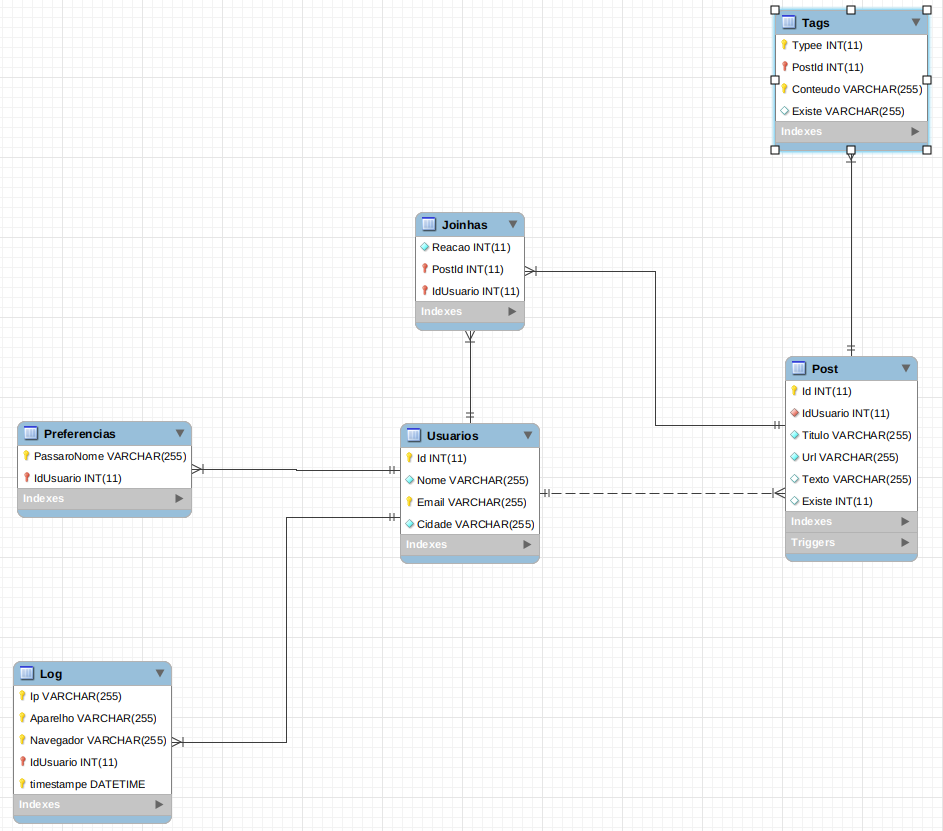
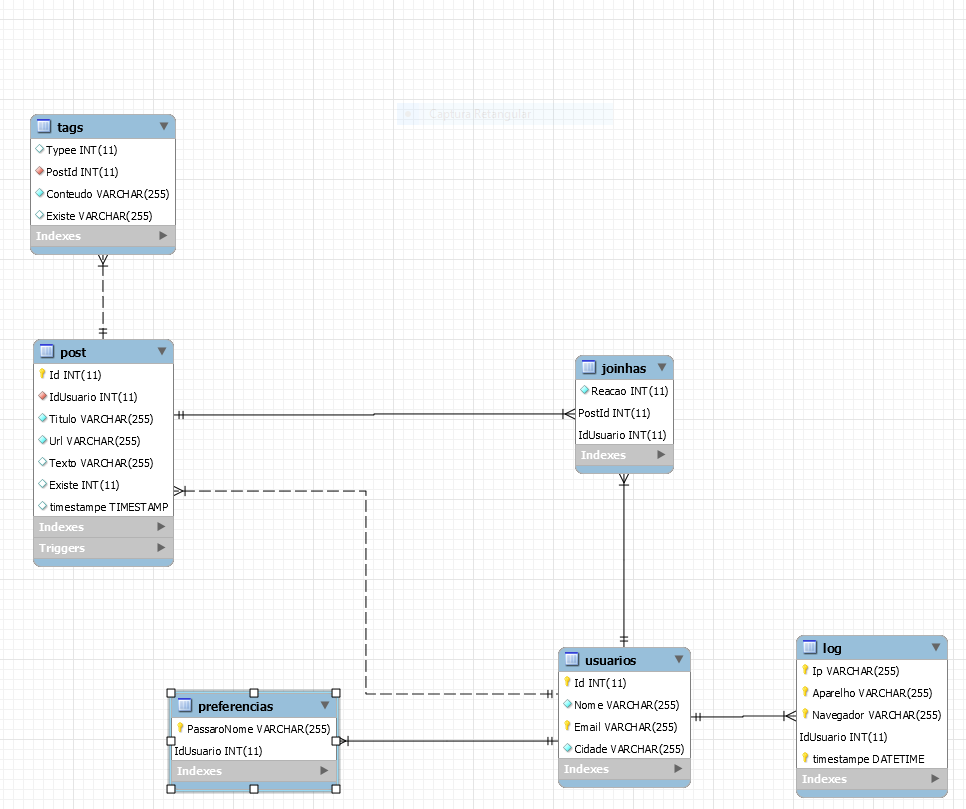
WIP: API

diff --git a/fast_api.py b/fast_api.py
@@ -1,0 +1,94 @@
+from fastapi import FastAPI
+from projeto import *
+
+app = FastAPI()
+
+
+connn = pymysql.connect(
+        host=config['HOST'],
+        user=config['USER'],
+        password=config['PASS'],
+        database='MEGDA'
+)
+
+
+class Usuario(BaseModel):
+    nome: str
+    email: str
+    cidade: str
+
+class Preferencia(BaseModel):
+    nomePassaro: str
+    idUsuario: int
+
+class Reacao(BaseModel):
+    Reacao: str
+    PostId: int
+    IdUsuario: int
+@app.post("/")
+def adiciona_usuario( usuario : Usuario)
+
+@app.post("/")
+def adiciona_preferencia( preferencia : Preferencia)
+
+@app.post("/")
+def adciona_reacao( reacao : Reacao)
+
+def select_usuarios(conn)
+
+
+def select_logs(conn)
+
+
+def select_pref(conn)
+
+
+@app.get("/")
+def select_reacoes_server(conn)
+
+@app.get("/")
+def select_posts_server(conn)
+
+@app.get("/")
+def select_posts_ativos_server(conn)
+
+@app.get("/")
+def select_posts_ativos_ordem_cronologica_server(conn)
+
+@app.get("/")
+def acessos_por_aparelho_navergador_server(conn)
+
+@app.get("/{nome_cidade}")
+def select_usuarios_famosos_por_cidade_server( nome_cidade)
+
+
+@app.get("/{nome_usuario}")
+def referencias_por_usuario_server( nome_usuario)
+
+
+@app.get("/{Limite}")
+def acessos_no_dia_server( Limite)
+
+@app.get("/{passaro}")
+def url_por_passaros_server( passaro)
+
+
+        
+def adiciona_post( IdUsuario, Titulo, Url, Texto)
+
+
+def delete_post( id)
+
+
+def adiciona_log_info( ip, navegador, aparelho, idusuario)
+
+
+
+@app.get("/")
+def read_root():
+    return {"Hello": "World"}
+
+
+@app.get("/items/{item_id}")
+def read_item(item_id: int, q: str = None):
+    return {"item_id": item_id, "q": q}

diff --git a/README.md b/README.md
@@ -1,76 +1,5 @@
 ### SCHEMA
 
-```sql
-#DROP DATABASE IF EXISTS MD;
-
-#CREATE DATABASE MD;
-USE MD;
-
-DROP TABLE IF EXISTS Log;
-DROP TABLE IF EXISTS Preferencias;
-
-DROP TABLE IF EXISTS Tags;
-DROP TABLE IF EXISTS Post;
-DROP TABLE IF EXISTS Usuarios;
-
-
-CREATE TABLE Usuarios (
-    Id int AUTO_INCREMENT,
-    Nome varchar(255) NOT NULL,
-    Email varchar(255) UNIQUE,
-    Cidade varchar(255) NOT NULL,
-    PRIMARY KEY (Id, Email)
-);
-
-CREATE TABLE Preferencias (
-    PassaroNome VARCHAR(255),
-    IdUsuario int NOT NULL,
-	PRIMARY KEY (IdUsuario, PassaroNome),
-    FOREIGN KEY (IdUsuario) REFERENCES Usuarios(Id)
-);
-
-CREATE TABLE Post (
-    Id INT AUTO_INCREMENT,
-    IdUsuario INT NOT NULL,
-    Titulo VARCHAR(255) NOT NULL,
-    Url VARCHAR(255) NOT NULL,
-    Texto VARCHAR(255),
-    Existe int DEFAULT 1,
-    PRIMARY KEY (Id),
-    FOREIGN KEY (IdUsuario)
-        REFERENCES Usuarios(Id)
-);
-
-CREATE TABLE Tags (
-    Typee INT,
-    PostId INT NOT NULL,
-    Conteudo VARCHAR(255) NOT NULL,
-    Existe VARCHAR(255),
-    PRIMARY KEY (Typee , PostId , Conteudo),
-    FOREIGN KEY (PostId)
-        REFERENCES Post (Id)
-);
-
-CREATE TABLE Log (
-    Ip VARCHAR(255),
-    Aparelho VARCHAR(255) NOT NULL,
-    Navegador VARCHAR(255) NOT NULL,
-    IdUsuario int NOT NULL,
-    timestampe DATETIME DEFAULT CURRENT_TIMESTAMP ON UPDATE CURRENT_TIMESTAMP,
-    PRIMARY KEY (timestampe , Ip, Navegador, Aparelho, IdUsuario),
-    FOREIGN KEY (IdUsuario) REFERENCES Usuarios(Id)
-);
-
-DELIMITER $$
-CREATE TRIGGER Post_check BEFORE UPDATE ON Post
-FOR EACH ROW
-BEGIN
-	UPDATE Tags SET Existe = NEW.Existe WHERE
-		PostId = NEW.Id;
-END$$
-DELIMITER ;
-```
-
 ## MODELO ENTIDADE-RELACIONAMENTO
 ![Entidade Rerlacionamento](entidade-relacionamento.png)
 
@@ -139,10 +68,11 @@ IDUSUARIO | O Id para a representacao do usuario no banco de dados | nao |sim  |
 timestamp | Qual a data da requisicao | sim (timestamp default) |sim |nao | nao
 
 
-## LOG
+## JOINHAS
 
 NOME | DESCRICAO | AUTO-GERADA | PK | FK | RESTRICOES
 --- | --- | --- | --- | --- | ---
 Reacao | Se a reação dauele usuario foi positiva ou negativa | nao |nao |nao | nao nulo
 IDUSUARIO | O Id para a representacao do usuario no banco de dados | nao |sim  |sim (Usuario)| nao
 PostId | O Id de em qual post a tag foi usada para poder ser relacionado | nao |sim  |sim (Posts)| nao
+
